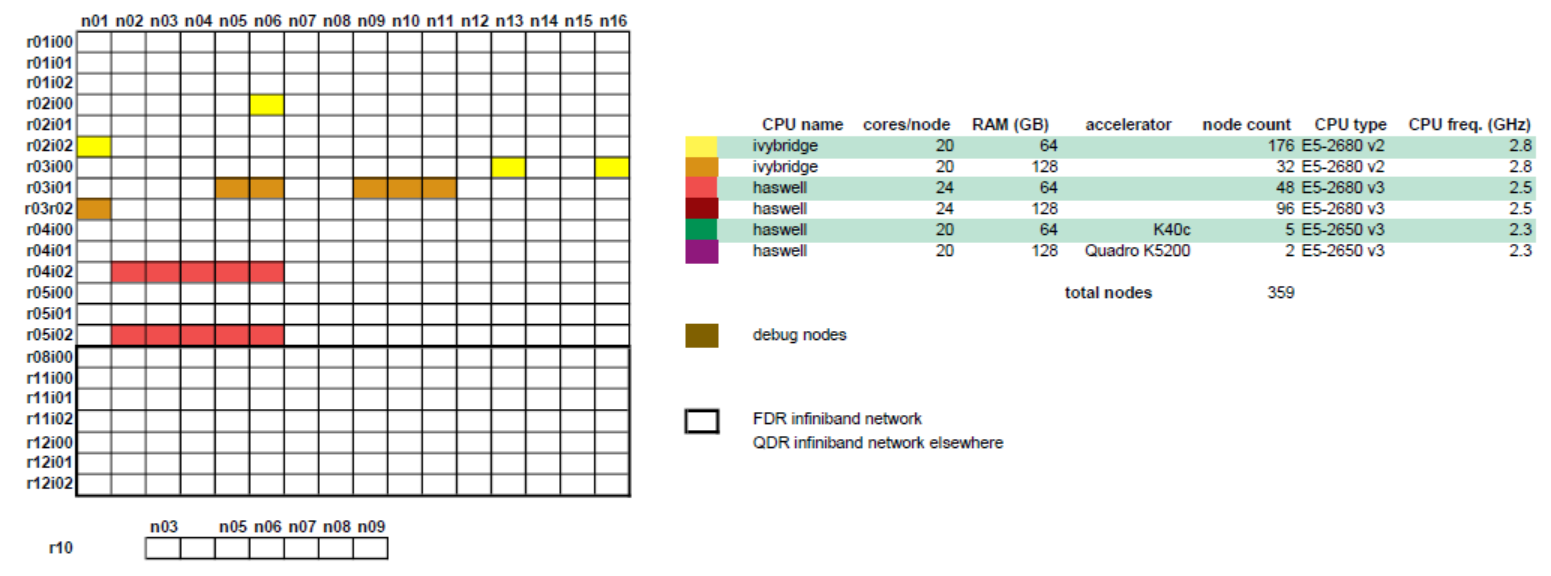
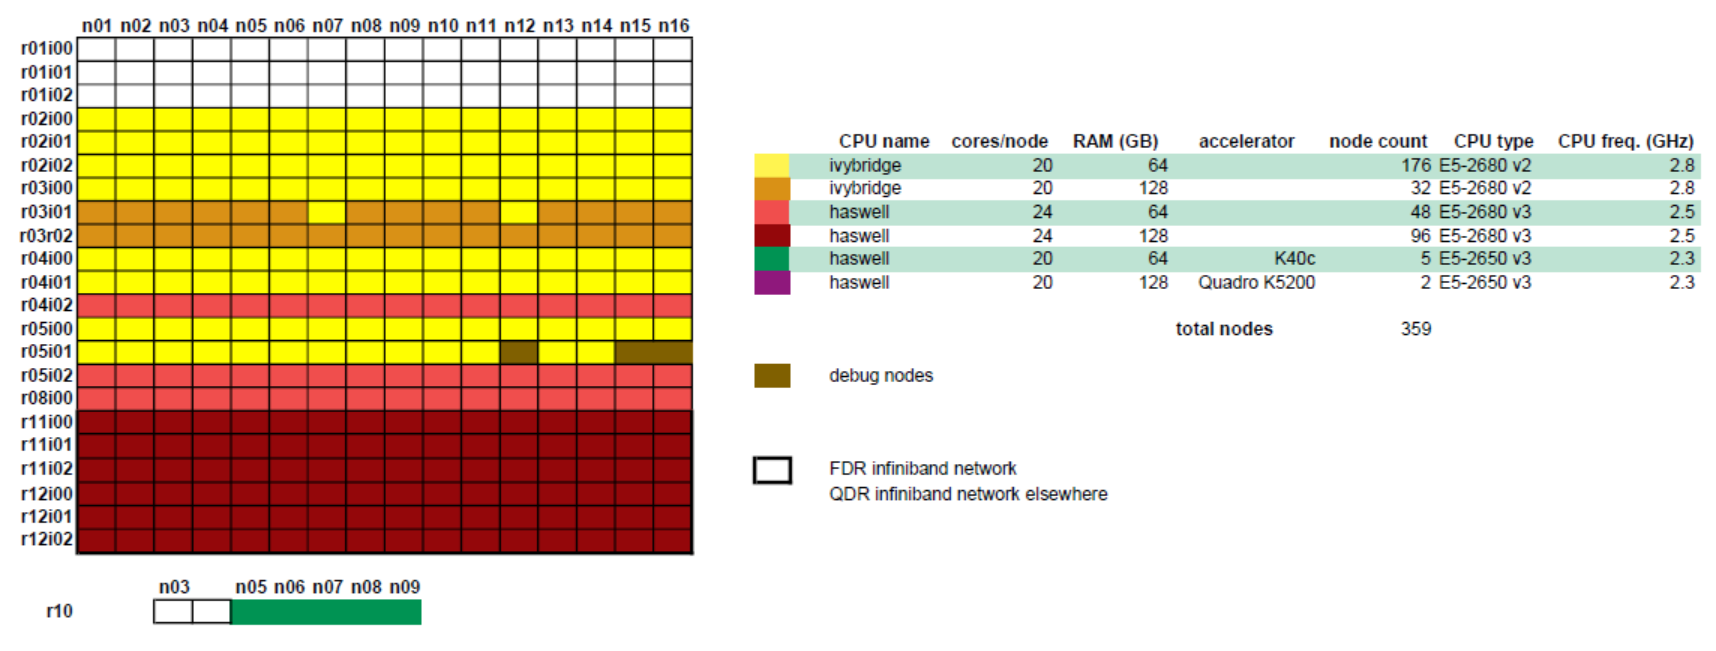
updated thinking7 hardware page with final node configuration

diff --git a/source/leuven/tier2_hardware/thinking_centos7_hardware.rst b/source/leuven/tier2_hardware/thinking_centos7_hardware.rst
@@ -1,7 +1,7 @@
 Thinking CentOS 7 hardware
 ==========================
 
-Thinking is KU Leuven/UHasselt's older Tier-2 cluster. It has thin nodes, large memory nodes, as well as GPGPU nodes.  It is gradually being migrated to CentOS 7, so this section will expand over time.
+Thinking is KU Leuven/UHasselt's older Tier-2 cluster. It has thin nodes, large memory nodes, as well as GPGPU nodes.  It is migrated to CentOS 7, so this section will expand over time.
 
 
 Login infrastructure
@@ -9,7 +9,7 @@ Login infrastructure
 
 You can access Thinking by using 
 
-    - login\-thinking.hpc.kuleuven.be
+    - login\-thinking.hpc.kuleuven.be or login\-genius.hpc.kuleuven.be
 
 This will loadbalance your connection to one of the 4 Thinking login nodes
  
@@ -27,20 +27,22 @@ Direct login is using SSH is possible to all login infrastructure without restri
 
 Hardware details
 ----------------
-- 10 ivybridge nodes
+- 160 ivybridge nodes
 
     - 2 Xeon E5-2680 v2 CPUs@2.8 GHz, 10 cores each
-    - 64 GB RAM (4) / 128 GB RAM (6)
+    - 64 GB RAM (130) / 128 GB RAM (30)
     - feature ``ivybridge``
 
 
-- 10 haswell nodes
+- 144 haswell nodes
 
     - 2 Xeon E5\-2680 v3 CPUs\@2.5 GHz, 12 cores each
-    - 128 GB RAM
+    - 64 GB RAM(32) / 128 GB RAM(96)
     - feature ``haswell``
 
 In the older partition of the cluster, nodes are connected via a QDR infiniband interconnect, while the newer partition has a faster FDR interconnect.  See the diagram below.
+
+A :ref:`quickstart guide <Thinking7 quick start guide>` is available to get you started on submitting jobs to the updated ThinKing cluster.
 
 |Thinking CentOS 7 hardware|
 
